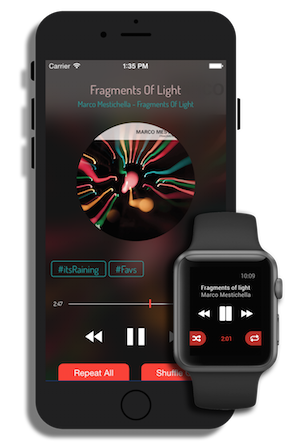
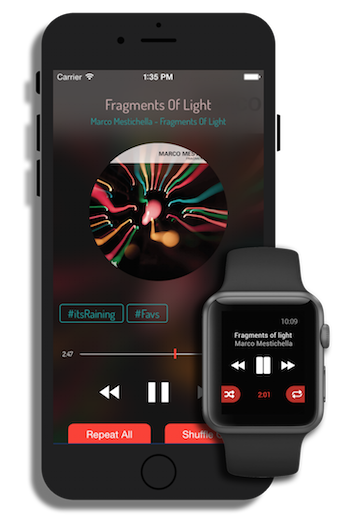
Updated iPhone image and its position

diff --git a/index.html b/index.html
@@ -102,10 +102,10 @@
                         <img src="assets/img/transparent.png"  alt="slidebg1"  data-bgfit="cover" data-bgposition="left top" data-bgrepeat="no-repeat">
                         <!-- LAYERS -->
                         <!-- LAYER NR. 1 -->
-                        <div class="tp-caption lfl fadeout hidden-xs"
+                        <div class="tp-caption lfl fadeout"
                             data-x="left"
                             data-y="bottom"
-                            data-hoffset="240"
+                            data-hoffset="195"
                             data-voffset="-65"
                             data-speed="500"
                             data-start="700"
